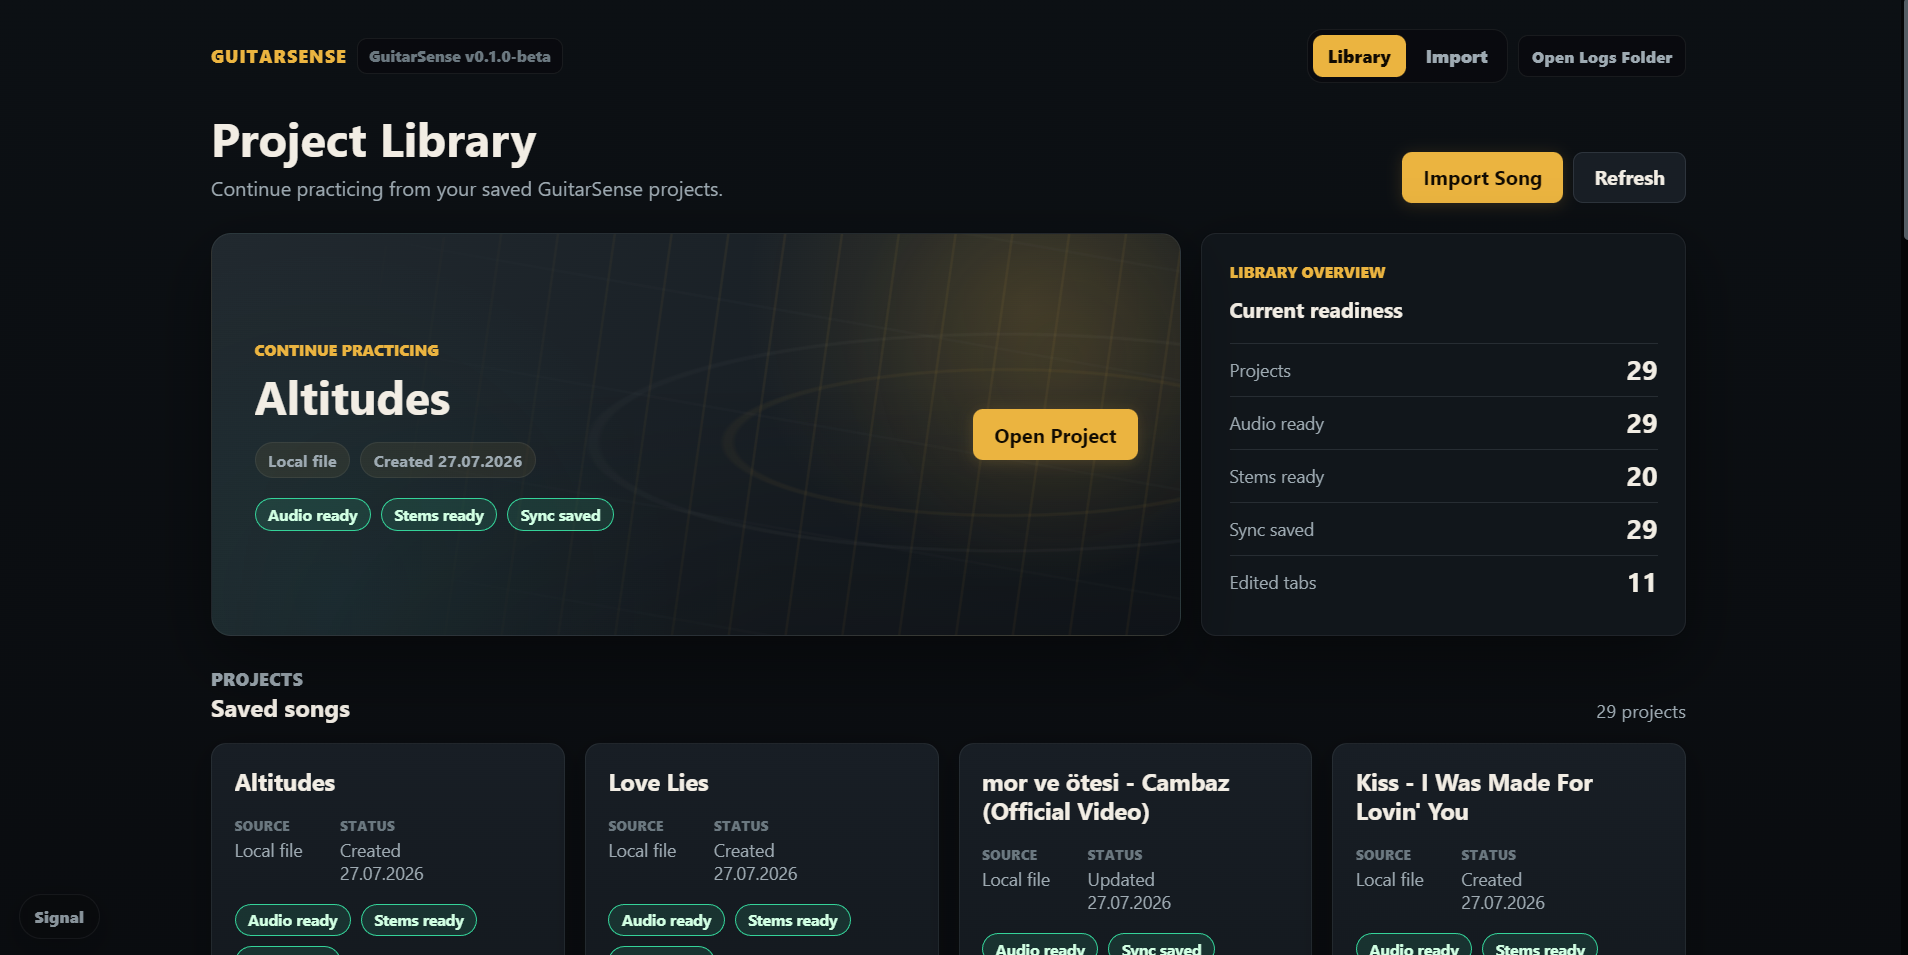
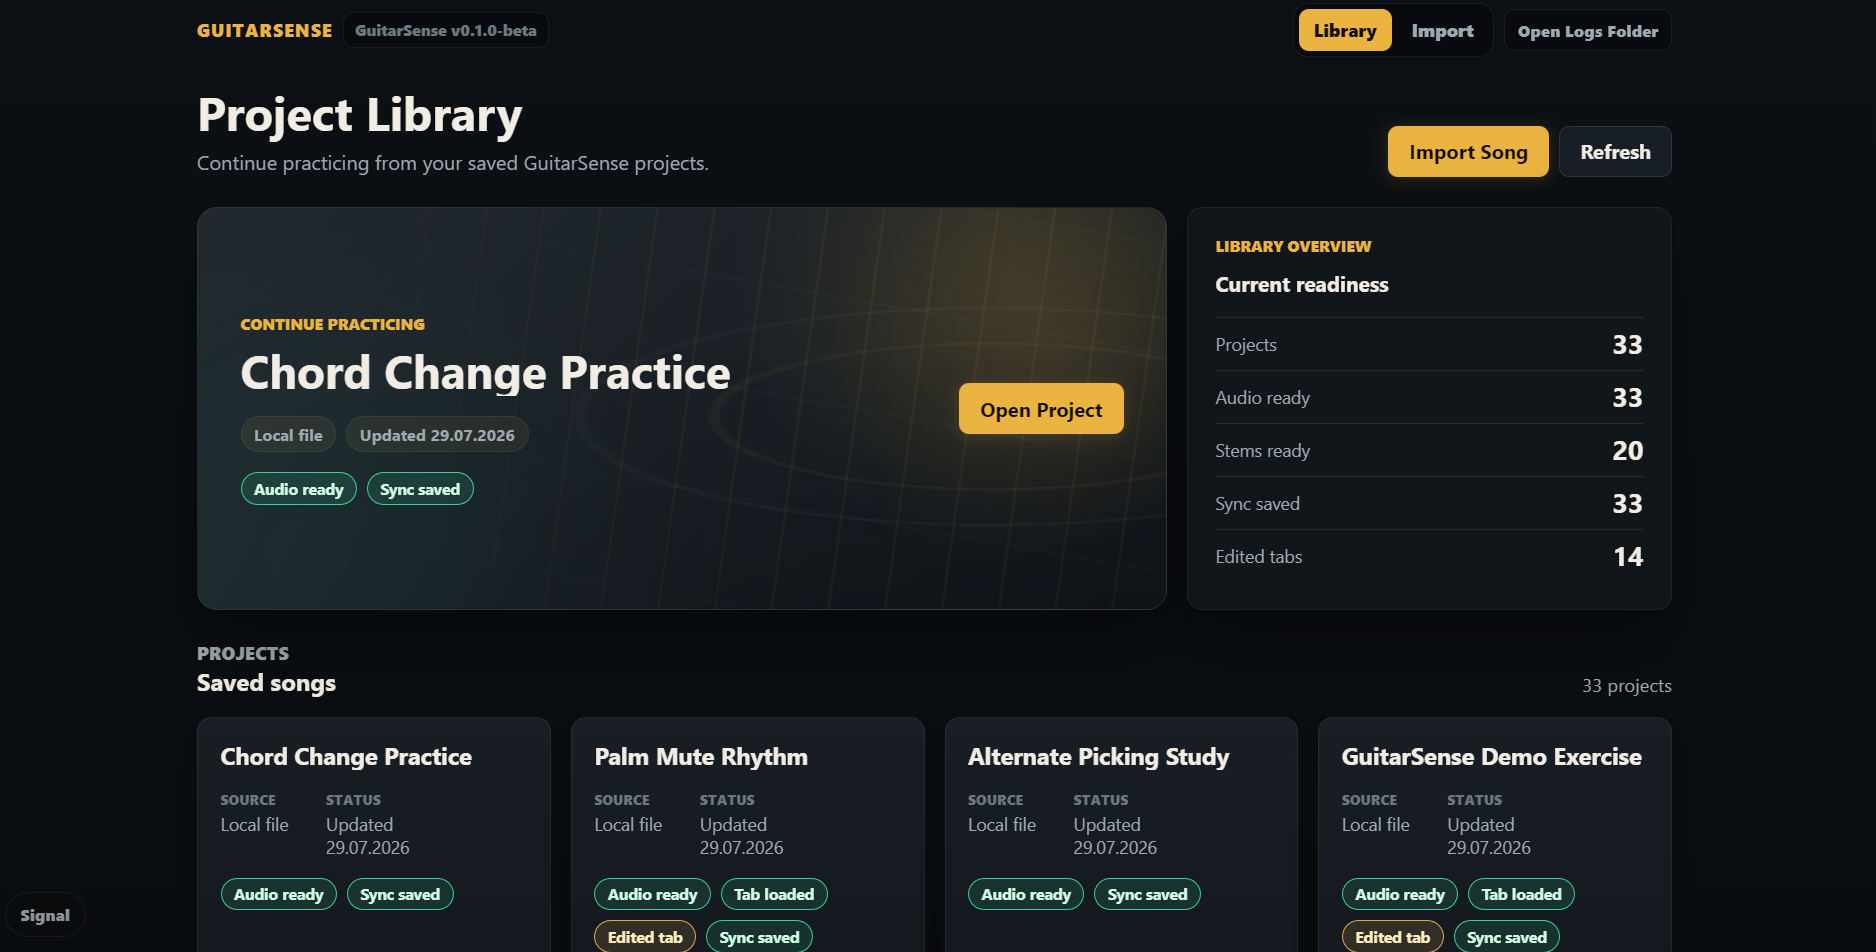
chore: finalize project showcase screenshots
Updates Nexora’s authentication screenshot metadata to use the new production PNG (1333x769) and clears its pre-launch replacement flag/reason. README checklist now removes the authentication cleanup item, and tests were adjusted to verify the new image file, dimensions, and that only remaining private screenshots are flagged.

diff --git a/src/data/nexora-images.ts b/src/data/nexora-images.ts
@@ -8,16 +8,15 @@ export type NexoraImage = ScreenshotImage & {
 
 export const nexoraImages = {
   homeFeed: {
-    src: "/images/projects/nexora/ana-ekran.jpg",
-    width: 1280,
-    height: 700,
+    src: "/images/projects/nexora/ana-ekran.png",
+    width: 1881,
+    height: 856,
     alt: "Nexora home feed with AI-assisted content analysis and a Reels preview",
     caption: null,
     placement: "homepage",
     frame: "contain",
-    replaceBeforeLaunch: true,
-    replacementReason:
-      "Contains third-party artwork or media used as test content.",
+    replaceBeforeLaunch: false,
+    replacementReason: null,
   },
   explore: {
     src: "/images/projects/nexora/feed.jpg",
@@ -33,16 +32,15 @@ export const nexoraImages = {
       "Contains third-party artwork or media used as test content.",
   },
   authentication: {
-    src: "/images/projects/nexora/2fa.jpg",
-    width: 1041,
-    height: 727,
+    src: "/images/projects/nexora/2fa.png",
+    width: 1333,
+    height: 769,
     alt: "Nexora email verification interface requesting a six-digit code",
     caption: "Verification makes account activation an explicit user step.",
     placement: "walkthrough",
     frame: "natural",
-    replaceBeforeLaunch: true,
-    replacementReason:
-      "Contains an intentionally unrealistic test email address.",
+    replaceBeforeLaunch: false,
+    replacementReason: null,
   },
   messaging: {
     src: "/images/projects/nexora/mesaj.jpg",

diff --git a/src/data/guitarsense-images.ts b/src/data/guitarsense-images.ts
@@ -12,8 +12,8 @@ export type GuitarSenseImage = {
 export const guitarSenseImages = {
   library: {
     src: "/images/projects/guitarsense/library.png",
-    width: 1908,
-    height: 955,
+    width: 1876,
+    height: 952,
     alt: "GuitarSense project library showing saved practice projects and readiness states",
     caption: null,
     placement: "homepage",

diff --git a/README.md b/README.md
@@ -56,8 +56,7 @@ public/
 - Reviewed copy for every project and experience entry
 - Replace the zero-value GuitarSense Practice Summary capture with a meaningful completed session before public launch
 - Nexora screenshot replacements before public launch:
-  - Replace the home feed and Explore captures with owned media instead of third-party test artwork
-  - Replace the authentication capture containing an unrealistic test email
+  - Replace the Explore capture with owned media instead of third-party test artwork
   - Replace the messaging capture containing test-user names or profile imagery
 - Grade Watcher project details
 - Confirmed GitHub, LinkedIn, and contact destinations
